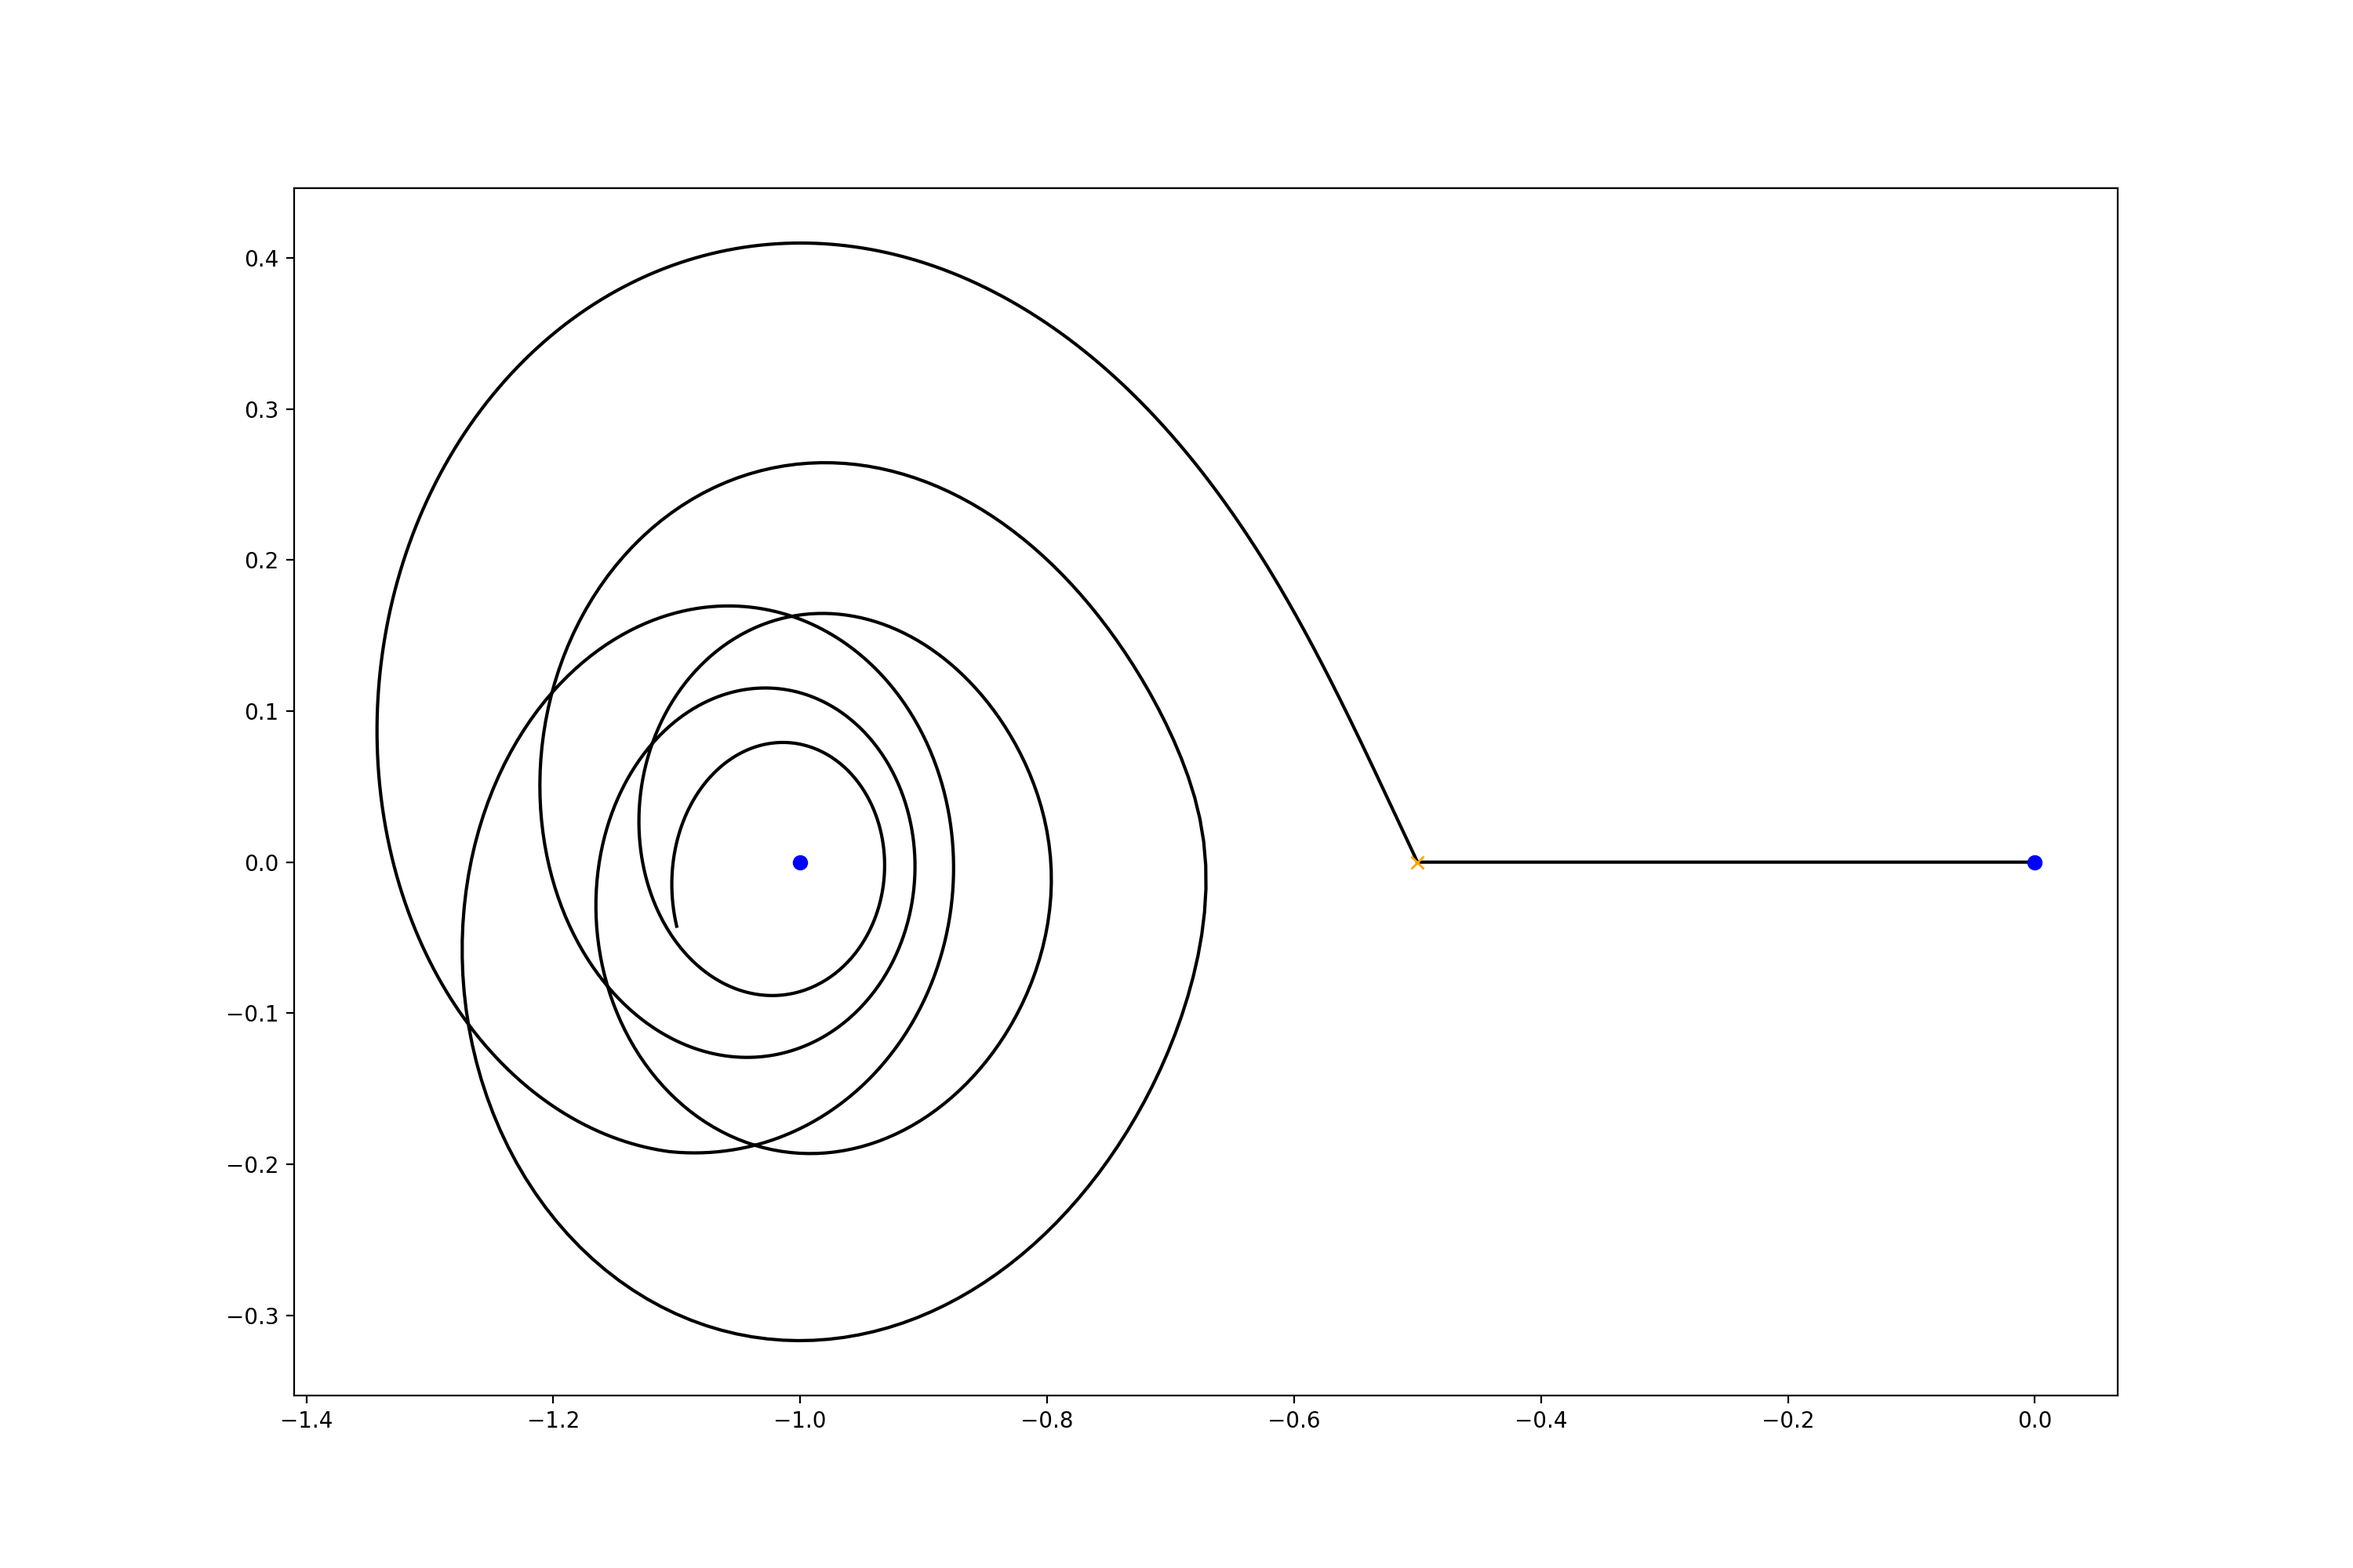
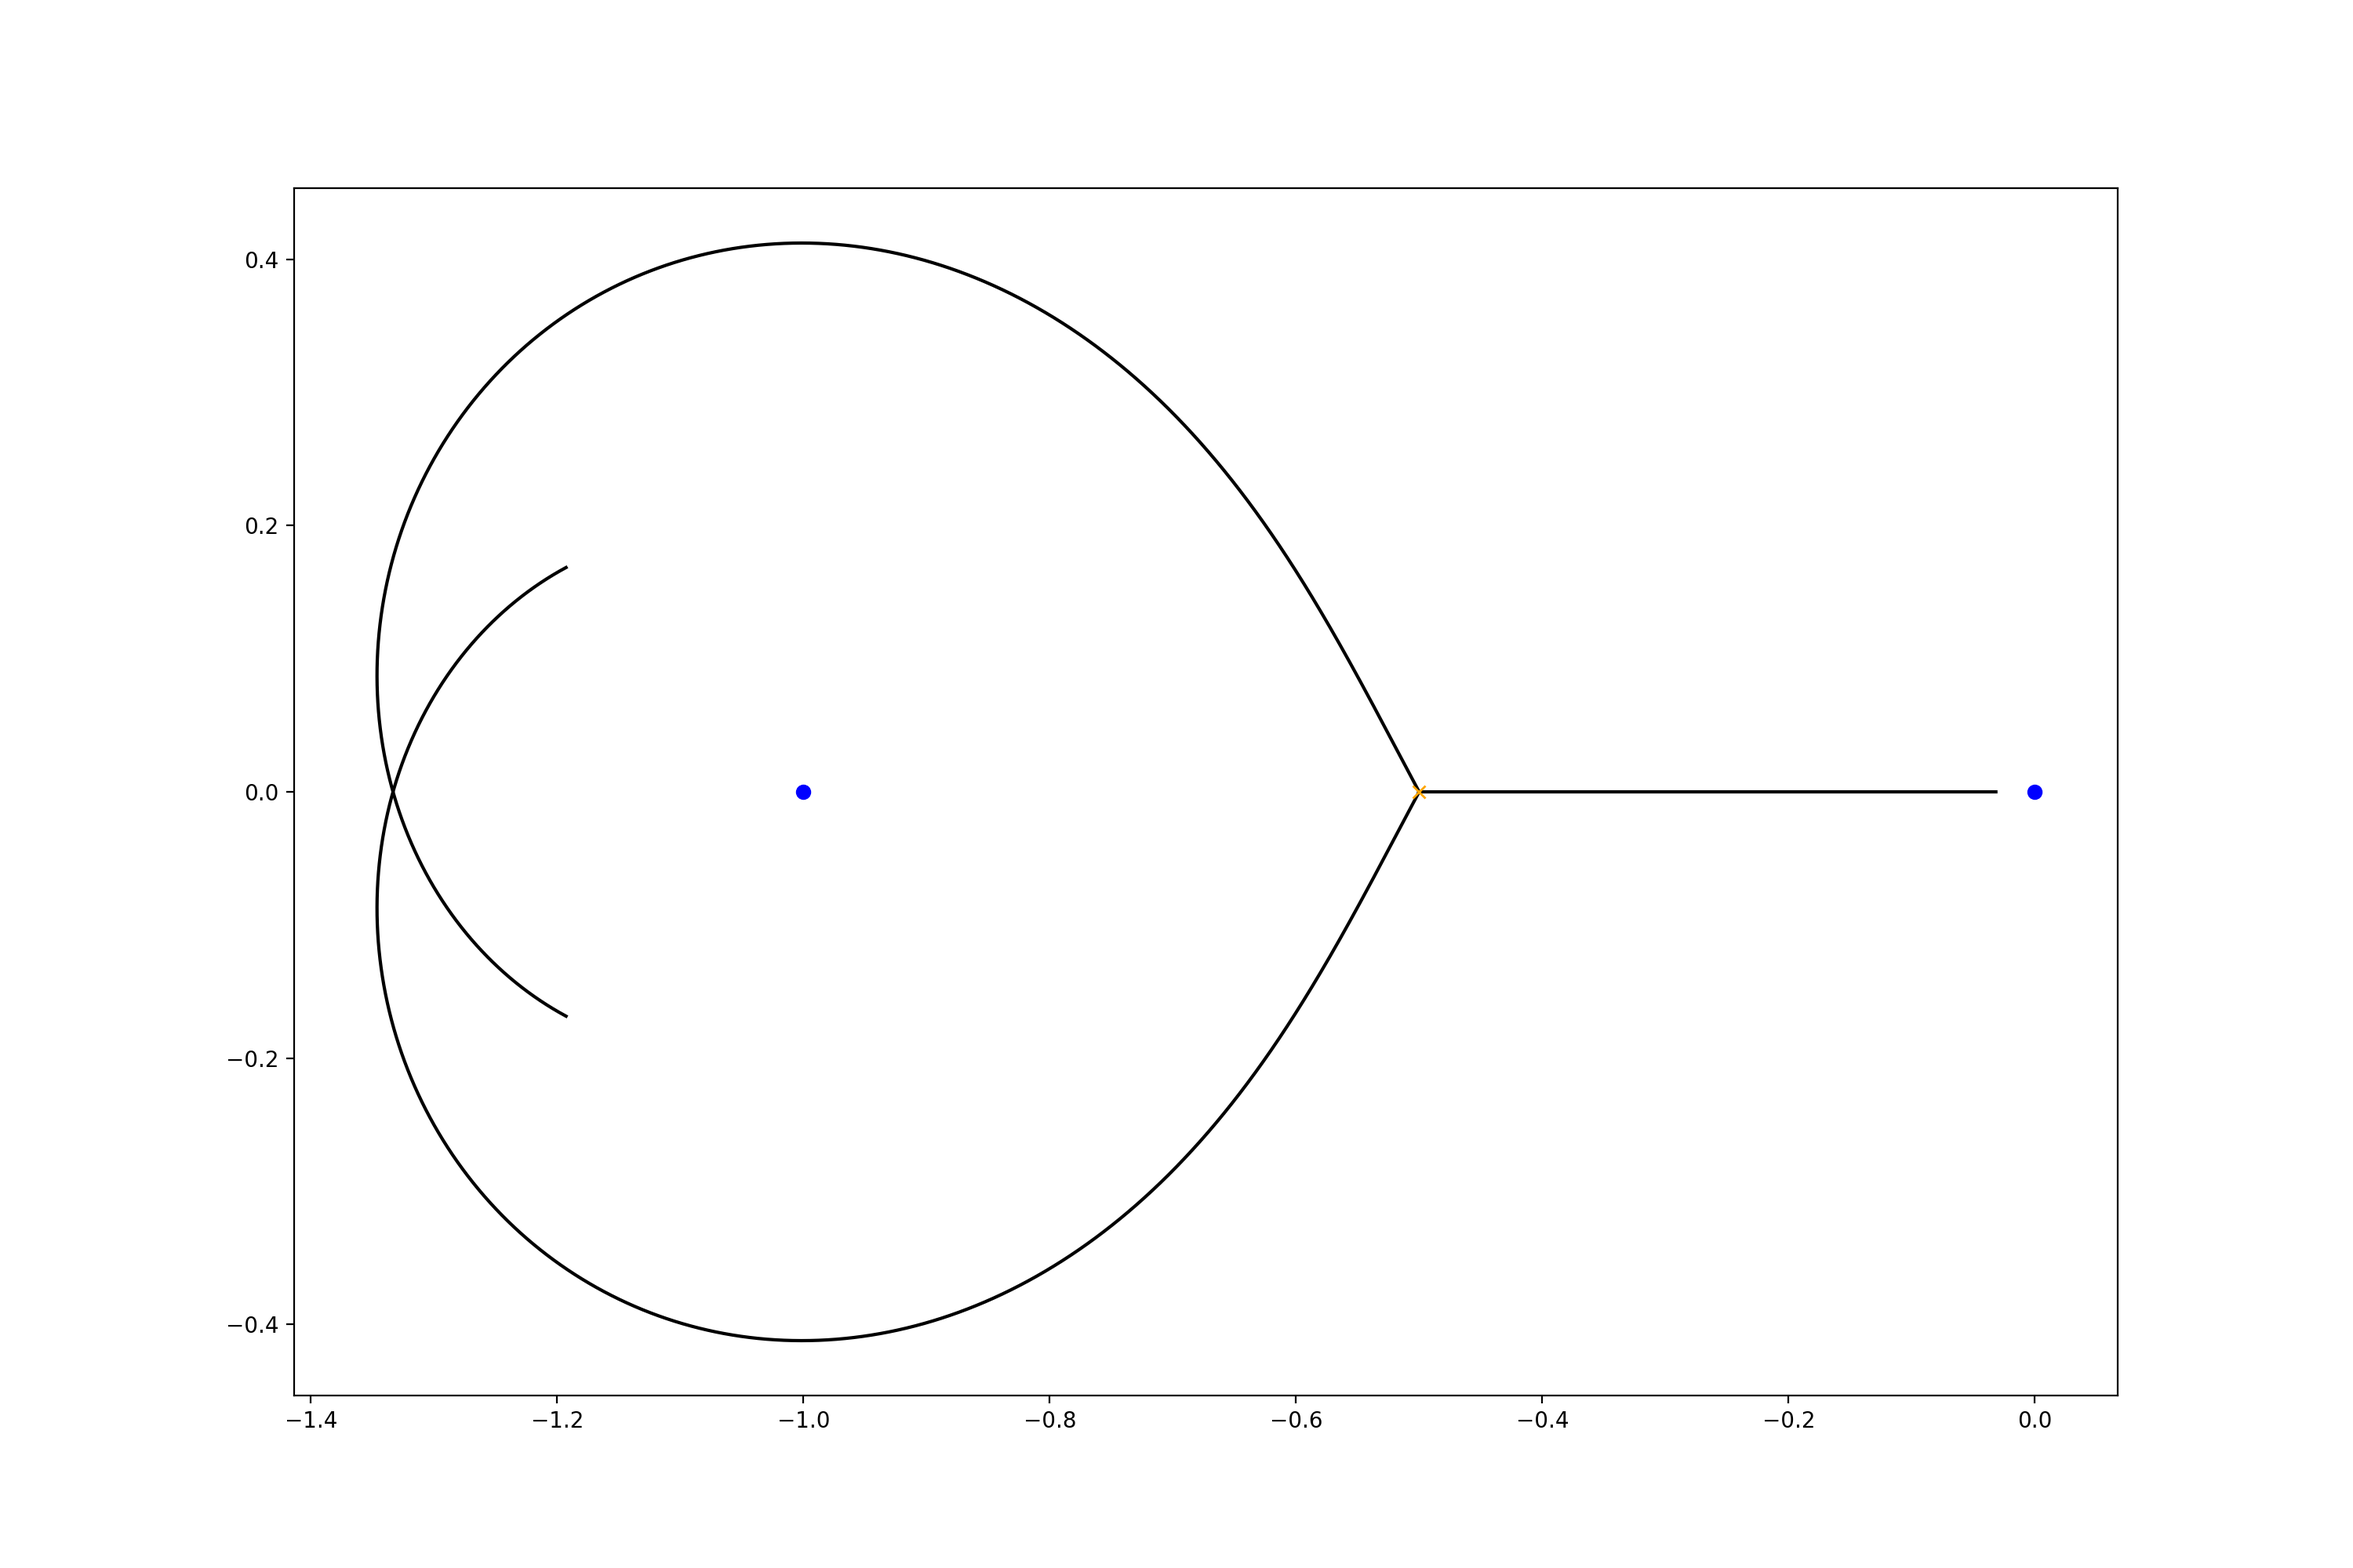
Introduce maps to find intersections

diff --git a/src/network.py b/src/network.py
@@ -6,17 +6,31 @@ import moebius as mb
 import numpy as np
 import sympy as sym
 import matplotlib.pyplot as plt
+import map as mp
+
+
+class path():
+    def __init__(self, x, y_i, y_j):
+        self.x = np.array(x)
+        self.y_i = np.array(y_i)
+        self.y_j = np.array(y_j)
 
 
 class network():
     def __init__(self, H,  dt, steps, theta, expo=False, comp=False):
         # Indices of the network are
         # [time, roots, trajectory starting from branch points]
+        self.maps = np.array(
+            [mp.path_map((-2, 2), (-2, 2), (2000, 2000))
+             for i in range(3)])
         self.curve = sw.sw_curve(H, comp=comp)
         self.expo = expo
         self.dt = dt
         self.steps = steps
         self.theta = theta
+        # self.path_x = np.array([])
+        # self.path_y_i = np.array([])
+        # self.path_y_j = np.array([])
         self.x = np.array([[[0j for k in range(3)]
                             for j in range(len(self.curve.branch_points))]
                            for i in range(self.steps)])
@@ -44,6 +58,10 @@ class network():
                        ([rts[i] - rts[u] for u in range(i + 1, len(rts))])
                        ) < 0.0001:
                     for k in range(3):
+                        # self.path_y_i = np.append(
+                        # self.path_y_i, np.array(complex(rts[i])))
+                        # self.path_y_j = np.append(
+                        # self.path_y_i, np.array(complex(rts[i])))
                         self.y_i[0, j, k] = complex(rts[i])
                         self.y_j[0, j, k] = complex(rts[i])
                     break
@@ -65,6 +83,7 @@ class network():
             for k in range(3):
                 dx_k = dx*np.exp(2 * np.pi * k * 1j / 3)
                 self.x[1, j, k] = self.x[0, j, k] + dx_k
+                self.maps[k].draw_line(self.x[0, j, k], self.x[1, j, k])
                 if self.expo:
                     self.y_i[0, j, k] = np.log(self.y_i[0, j, k])
                     self.y_j[0, j, k] = self.y_i[0, j, k]
@@ -133,7 +152,10 @@ class network():
 
         signs = np.array([[0 for k in range(3)]
                           for j in range(len(self.curve.branch_points))])
-
+        last_index = [(0, 0), (0, 0), (0, 0)]
+        new_index = last_index
+        for k in range(3):
+            new_index[k] = self.maps[k].new_index(self.x[2, 0, k])
         for i in range(2, steps):
             for j in range(len(self.curve.branch_points)):
                 for k in range(3):
@@ -151,37 +173,57 @@ class network():
                             signs[j, k] = 1
                         else:
                             signs[j, k] = 1
-                    signs[0, 0] = -1
-                    signs[0, 2] = -1
+                    signs[0, 0] = 1
+                    signs[0, 1] = 1
+                    signs[0, 2] = 1
                     self.x[i, j, k] = x + signs[j, k]*dy[0]
                     self.y_i[i, j, k] = y1 + signs[j, k] * dy[1]
                     self.y_j[i, j, k] = y2 + signs[j, k] * dy[2]
+                    intersections = []
+                    last_index[k] = new_index[k]
+                    new_index[k] = self.maps[k].new_index(self.x[i, j, k])
+                    if new_index[k] != last_index[k]:
+                        for g in range(3):
+                            intersections.append(self.maps[g].check_intersection(
+                                self.x[i - 1, j, k], self.x[i, j, k]))
+                        self.maps[k].draw_line(self.x[i - 1, j, k], self.x[i - 1, j, k])
+                        if len(intersections) != 0:
+                            print(intersections)
                     # print(self.curve.H(5j, 5))
-                if i % 100 == 0:
+                    # if i % 1000 == 0:
+                    # if i % 1000 == 0:
+                    # print("Old", i,
+                    # self.curve.H(
+                    # self.x[i, j, k],
+                    # np.exp(self.y_i[i, j, k])))
+                    # if False and abs(self.x[i, j, k]) > 0.00001:
+                    # rts_dict = sym.roots(
+                    # self.curve.H_sym.subs(
+                    # self.curve.x_sym, self.x[i, j, k]))
+                    # rts = []
+                    # for rt in rts_dict:
+                    # for whatever in range(rts_dict[rt]):
+                    # rts.append(complex(rt))
+                    # a = np.argmin(
+                    # [abs(rts[t] - np.exp(self.y_i[i, j, k]))
+                    # for t in range(len(rts))])
+                    # b = np.argmin([abs(rts[t] - np.exp(self.y_j[i, j, k]))
+                    # for t in range(len(rts))])
+                    # #n_a = int(
+                    # (np.log(rts[a]) - self.y_i[i, j, k] + 1j * np.pi).imag
+                    # #          / (2 * np.pi))
+                    # #n_b = int(
+                    # (np.log(rts[b]) - self.y_j[i, j, k] + 1j * np.pi).imag
+                    # #          / (2 * np.pi))
+                    # # print("y_i", np.log(rts[a]) - self.y_i[i, j, k], n_a)
+                    # # print("y_j", np.log(rts[b]) - self.y_j[i, j, k], n_b)
+                    # # self.y_i[i, j, k] = np.log(rts[a]) - 2j * np.pi * n_a
+                    # # self.y_j[i, j, k] = np.log(rts[b]) - 2j * np.pi * n_b
                     if i % 1000 == 0:
-                        print("Old", i,
+                        print(i,
                               self.curve.H(
-                                  self.x[i, j, k], np.exp(self.y_i[i, j, k])))
-                    rts_dict = sym.roots(self.curve.H_sym.subs(
-                        self.curve.x_sym, self.x[i, j, k]))
-                    rts = []
-                    for rt in rts_dict:
-                        for whatever in range(rts_dict[rt]):
-                            rts.append(complex(rt))
-                    a = np.argmin([abs(rts[t] - np.exp(self.y_i[i, j, k]))
-                                   for t in range(len(rts))])
-                    b = np.argmin([abs(rts[t] - np.exp(self.y_j[i, j, k]))
-                                   for t in range(len(rts))])
-                    diff = self.y_j[i, j, k] - self.y_i[i, j, k]
-                    n_temp = int(diff.imag / 2 * np.pi)
-                    self.y_i[i, j, k] = np.log(rts[a])
-                    self.y_j[i, j, k] = np.log(rts[b]) + 2j * np.pi * n_temp
-                    # print(diff - (self.y_j[i, j, k] - self.y_i[i, j, k]))
-                    # print(self.y_i[i, j, k] - diff)
-                    if i % 1000 == 0:
-                        print("New", i,
-                              self.curve.H(
-                                  self.x[i, j, k], np.exp(self.y_i[i, j, k])))
-            if i % 1000 == 0:
-                if dt <= 0.01:
-                    dt = dt*10
+                                  self.x[i, j, k],
+                                  np.exp(self.y_i[i, j, k])))
+                if i % 1000 == 0:
+                    if dt <= 0.000001:
+                        dt = dt*10

diff --git a/src/map.py b/src/map.py
@@ -1,0 +1,56 @@
+import numpy as np
+import matplotlib.pyplot as plt
+
+
+class path_map():
+    def __init__(self, x_limits, y_limits, resolution):
+        self.mapping = np.array(
+            [[0 for j in range(resolution[0])] for i in range(resolution[1])])
+        self.x_lim = x_limits
+        self.y_lim = y_limits
+        self.res = resolution
+        self.res_x = (self.x_lim[1] - self.x_lim[0]) / resolution[0]
+        self.res_y = (self.y_lim[1] - self.y_lim[0]) / resolution[1]
+
+    def new_index(self, z):
+        m = int((z.real - self.x_lim[0]) /
+                (self.x_lim[1] - self.x_lim[0]) * self.res[0])
+        n = int((z.imag - self.y_lim[0]) /
+                (self.y_lim[1] - self.y_lim[0]) * self.res[1])
+        return (m, n)
+
+    def draw_line(self, z1, z2, num=1):
+        x1 = (z1.real - self.x_lim[0]) / (self.x_lim[1] - self.x_lim[0])
+        y1 = (z1.imag - self.y_lim[0]) / (self.y_lim[1] - self.y_lim[0])
+        x2 = (z2.real - self.x_lim[0]) / (self.x_lim[1] - self.x_lim[0])
+        y2 = (z2.imag - self.y_lim[0]) / (self.y_lim[1] - self.y_lim[0])
+        s = int((x2 - x1) * self.res[0]) + int((y2 - y1) / self.res[1]) + 1
+        for i in range(2 * s):
+            m = int((x1 * i / (2 * s) + x2 * (1 - i / (2 * s))) * self.res[0])
+            n = int((y1 * i / (2 * s) + y2 * (1 - i / (2 * s))) * self.res[1])
+            if m >= 0 and m < self.res[0] and n >= 0 and n < self.res[1]:
+                self.mapping[m, n] = num
+        if s == 1:
+            return (m, n)
+        else:
+            return (-1, -1)
+
+    def check_intersection(self, z1, z2, num=1):
+        intersections = []
+        x1 = (z1.real - self.x_lim[0]) / (self.x_lim[1] - self.x_lim[0])
+        y1 = (z1.imag - self.y_lim[0]) / (self.y_lim[1] - self.y_lim[0])
+        x2 = (z2.real - self.x_lim[0]) / (self.x_lim[1] - self.x_lim[0])
+        y2 = (z2.imag - self.y_lim[0]) / (self.y_lim[1] - self.y_lim[0])
+        s = int((x2 - x1) * self.res[0]) + int((y2 - y1) / self.res[1]) + 1
+        for i in range(2 * s):
+            m = int((x1 * i / (2 * s) + x2 * (1 - i / (2 * s))) * self.res[0])
+            n = int((y1 * i / (2 * s) + y2 * (1 - i / (2 * s))) * self.res[1])
+            if m >= 0 and m < self.res[0] and n >= 0 and n < self.res[1]:
+                if self.mapping[m, n] != 0:
+                    intersections.append([(m, n)])
+        return intersections
+
+    def show_map(self, filename="map"):
+        fig = plt.figure(figsize=(15, 10), dpi=200)
+        plt.imshow(1 - self.mapping.T, cmap='Greys_r')
+        fig.savefig("../graphics/" + filename + ".png", dpi=200)

diff --git a/src/main.py b/src/main.py
@@ -1,6 +1,7 @@
 import sw_curve as sw
 import network as sn
-import numpy as np
+# import numpy as np
+# import map as mp
 # import matplotlib.pyplot as plt
 
 
@@ -10,8 +11,9 @@ def main():
     # network.start_paths()
     # network.evolve()
     # network.plot_network()
-    steps = 10000
-    expo_net = sn.network(sw.H_c3, 1e-10, steps, 0 * np.pi / 4, expo=True)
+    steps = 2000000
+    theta = 0.0
+    expo_net = sn.network(sw.H_c3, 1e-12, steps, theta, expo=True)
     expo_net.start_paths()
     expo_net.evolve()
     expo_net.plot_network(
@@ -22,6 +24,9 @@ def main():
         paths=[1], fix_axis=True, filename="expo_net1")
     expo_net.plot_network(
         paths=[2], fix_axis=True, filename="expo_net2")
+    expo_net.maps[0].show_map("map0")
+    expo_net.maps[1].show_map("map1")
+    expo_net.maps[2].show_map("map2")
 
 
 if __name__ == '__main__':
